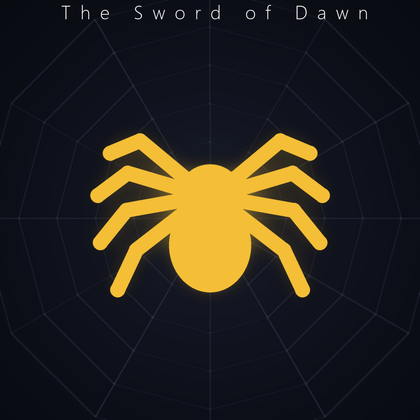
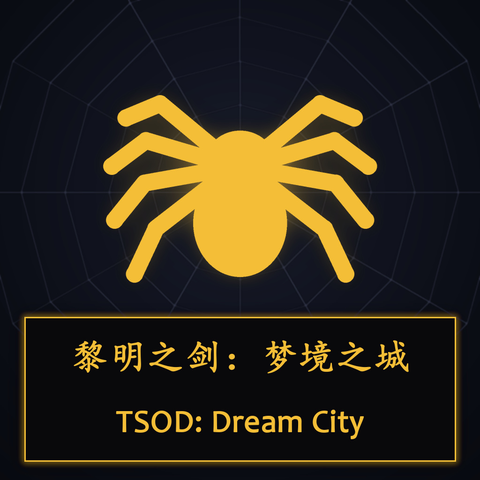
chore: Draw the whole cover in code, title plate included
Ports the Photoshop layer styles into the generator rather than pasting
a title on afterwards. Not parameter-for-parameter, just close enough to
read the same:

  drop shadow  offset by the 30 degree light, gaussian, composited
               toward black - multiply at 50% is just darkening
  outer glow   shape dilated then blurred, combined with a lighter()
               pass, which is what screen does for a solid colour
  strokes      the plate border drawn directly; the text uses a
               same-colour stroke_width, which just thickens the strokes

KaiTi for the Chinese line and Candara for the English, matching the
font picks in Photoshop. The spider moves back up to leave the lower
third for the plate. PLATE_ENABLED = False still gives a clean plate.

diff --git a/tools/make_cover.py b/tools/make_cover.py
@@ -1,20 +1,29 @@
 # -*- coding: utf-8 -*-
-"""生成创意工坊封面：深色底 + 琥珀金的上层叙事者 + 顶部标题。
+"""生成创意工坊封面：深色底 + 琥珀金的上层叙事者 + 下方标题牌。
 
 skill 的发布清单要求封面至少 512×512；这里出 1024×1024，和塞西尔帝国那张一致，
 缩略图缩下去更干净。蜘蛛用城邦那套琥珀金（245,190,55，和 PlayerColors 里同一个值），
 背后压一层很淡的蛛网，呼应「叙事者神经网络」。
 
-标题贴顶排，蜘蛛随之落到画面正中，构图才不会头重脚轻。
-字距是加在每个字母**后面**的，末尾会多出一份空档，所以整行还要右移半个字距
-才是视觉居中——直接按总宽居中会偏左。
-把 TITLE_TEXT 置空就出一张不带字的底图。
+标题牌照着 PS 里那套图层样式复刻，不追求参数一一对应，看着是那么回事就行：
+
+    投影    正片叠底 50%，角度 30°，距离 5px，大小 38px
+            -> 一层偏移后高斯模糊的黑，压在牌子底下
+    外发光  滤色 50%，黄色，扩展 20%，大小 6px
+            -> 把牌子形状往外扩几像素再模糊，以「取较亮者」的方式叠上去
+    描边    3px 内部，琥珀金
+            -> 直接画在矩形边上
+    文字描边
+            -> PIL 的 stroke_width，同色描边等于把笔画稍微加粗一点
+
+中文用楷体、英文用 Candara，跟 PS 里选的一致。
+把 PLATE_ENABLED 关掉就出一张干净的底图。
 """
 import math
 import os
 import sys
 
-from PIL import Image, ImageDraw, ImageFilter, ImageFont
+from PIL import Image, ImageChops, ImageDraw, ImageFilter, ImageFont
 
 sys.path.insert(0, os.path.dirname(os.path.abspath(__file__)))
 import make_icon  # noqa: E402  —— 复用同一只蜘蛛，不另画一份
@@ -28,18 +37,38 @@ BG_CENTER  = (26, 30, 46)
 BG_EDGE    = (8, 10, 16)
 WEB_COLOR  = (74, 80, 108)
 
-SPIDER_SIZE   = 620          # 蜘蛛边长
-SPIDER_CENTER = (SIZE // 2, SIZE // 2 + 20)   # 正中略偏下，给顶部标题让位
+SPIDER_SIZE   = 620
+SPIDER_CENTER = (SIZE // 2, 410)   # 偏上，把下半张留给标题牌
 WEB_CENTER    = SPIDER_CENTER
 WEB_RINGS     = 6
 WEB_SPOKES    = 12
 WEB_MAX_R     = 560
 
-TITLE_TEXT  = "The Sword of Dawn"          # 置空则不画标题
-TITLE_FONT  = r"C:\Windows\Fonts\segoeuil.ttf"   # Segoe UI Light
-TITLE_SIZE  = 46
-TITLE_TRACK = 0.50           # em 为单位；PS 字符面板里的字距填 500
-TITLE_TOP   = 12             # 字形顶端离画布顶端的像素数
+# ---- 标题牌 ----------------------------------------------------------------
+PLATE_ENABLED = True
+PLATE_BOX     = (52, 676, 972, 984)      # left, top, right, bottom
+PLATE_FILL    = (9, 9, 11)
+PLATE_STROKE  = 3
+
+GLOW_SPREAD = 5      # 外发光「扩展」：形状先往外胀这么多像素
+GLOW_BLUR   = 7      # 外发光「大小」
+GLOW_ALPHA  = 0.50
+
+SHADOW_ANGLE = 30    # PS 的光源角度，阴影落在反方向
+SHADOW_DIST  = 5
+SHADOW_BLUR  = 19    # PS 的「大小 38」约等于这个半径
+SHADOW_ALPHA = 0.50
+
+TEXT_CN      = "黎明之剑：梦境之城"
+TEXT_EN      = "TSOD: Dream City"
+FONT_CN      = r"C:\Windows\Fonts\simkai.ttf"    # 楷体
+FONT_EN      = r"C:\Windows\Fonts\Candara.ttf"
+SIZE_CN      = 76
+SIZE_EN      = 68
+BASELINE_CN  = 762      # 两行文字各自的视觉中线
+BASELINE_EN  = 906
+TRACK_CN     = 0.06     # 楷体挤在一起不好看，稍微松一点
+TRACK_EN     = 0.02
 
 
 def radial_background():
@@ -80,22 +109,66 @@ def draw_web(img):
     return img
 
 
-def draw_title(img):
+def _plate_mask(spread=0, offset=(0, 0)):
+    """标题牌的形状。spread 让它往外胀，offset 让它整体位移。"""
+    m = Image.new("L", (SIZE, SIZE), 0)
+    d = ImageDraw.Draw(m)
+    l, t, r, b = PLATE_BOX
+    d.rectangle((l - spread + offset[0], t - spread + offset[1],
+                 r + spread + offset[0], b + spread + offset[1]), fill=255)
+    return m
+
+
+def draw_plate(img):
+    """投影 -> 外发光 -> 牌面 -> 描边，顺序和 PS 图层样式一致。"""
+    # 投影：正片叠底就是往下压暗，这里直接按 mask 把底图往黑里插值
+    rad = math.radians(SHADOW_ANGLE)
+    off = (int(round(-SHADOW_DIST * math.cos(rad))),
+           int(round(SHADOW_DIST * math.sin(rad))))
+    shadow = _plate_mask(spread=2, offset=off).filter(ImageFilter.GaussianBlur(SHADOW_BLUR))
+    shadow = shadow.point(lambda v: int(v * SHADOW_ALPHA))
+    img = Image.composite(Image.new("RGB", img.size, (0, 0, 0)), img, shadow)
+
+    # 外发光：滤色 = 取较亮者，用胀开后模糊的形状当强度
+    glow_mask = _plate_mask(spread=GLOW_SPREAD).filter(ImageFilter.GaussianBlur(GLOW_BLUR))
+    glow_mask = glow_mask.point(lambda v: int(v * GLOW_ALPHA))
+    glow = Image.new("RGB", img.size, AMBER)
+    glow.putalpha(glow_mask)
+    img = ImageChops.lighter(img, Image.composite(glow.convert("RGB"),
+                                                  Image.new("RGB", img.size, (0, 0, 0)),
+                                                  glow_mask))
+
+    # 牌面与描边
     d = ImageDraw.Draw(img)
-    f = ImageFont.truetype(TITLE_FONT, TITLE_SIZE)
-    # 按墨迹包围盒定位，字形顶端才会正好落在 TITLE_TOP，
-    # 而不是差着字体自带的那点 ascender 空隙。
-    ink = d.textbbox((0, 0), TITLE_TEXT, font=f)
-    y = TITLE_TOP - ink[1]
+    d.rectangle(PLATE_BOX, fill=PLATE_FILL, outline=AMBER, width=PLATE_STROKE)
+    return img
 
-    extra  = TITLE_SIZE * TITLE_TRACK
-    widths = [d.textlength(ch, font=f) for ch in TITLE_TEXT]
-    total  = sum(widths) + extra * (len(TITLE_TEXT) - 1)
-    x = (img.width - total) / 2.0 + extra / 2.0   # 补末尾多出的半个字距
 
-    for ch, w in zip(TITLE_TEXT, widths):
-        d.text((x, y), ch, font=f, fill=(255, 255, 255))
+def draw_tracked(d, center_x, mid_y, text, font, tracking_em):
+    """按字距逐字排，并按墨迹包围盒把整行垂直居中。
+
+    字距是加在每个字后面的，末尾会多出一份空档，所以整行要右移半格才是视觉居中。
+    """
+    extra  = font.size * tracking_em
+    widths = [d.textlength(ch, font=font) for ch in text]
+    total  = sum(widths) + extra * (len(text) - 1)
+    ink    = d.textbbox((0, 0), text, font=font)
+    y      = mid_y - (ink[1] + ink[3]) / 2.0
+    x      = center_x - total / 2.0 + extra / 2.0
+    for ch, w in zip(text, widths):
+        d.text((x, y), ch, font=font, fill=AMBER,
+               stroke_width=1, stroke_fill=AMBER)   # 同色描边 = 笔画稍微加粗
         x += w + extra
+    return total
+
+
+def draw_titles(img):
+    d = ImageDraw.Draw(img)
+    cx = (PLATE_BOX[0] + PLATE_BOX[2]) // 2
+    draw_tracked(d, cx, BASELINE_CN, TEXT_CN,
+                 ImageFont.truetype(FONT_CN, SIZE_CN), TRACK_CN)
+    draw_tracked(d, cx, BASELINE_EN, TEXT_EN,
+                 ImageFont.truetype(FONT_EN, SIZE_EN), TRACK_EN)
     return img
 
 
@@ -118,8 +191,10 @@ def main():
     out = Image.alpha_composite(img.convert("RGBA"), glow)
     out.alpha_composite(tinted, (gx, gy))
     out = out.convert("RGB")
-    if TITLE_TEXT:
-        draw_title(out)
+
+    if PLATE_ENABLED:
+        out = draw_titles(draw_plate(out))
+
     out.save(OUT, "JPEG", quality=94, subsampling=0)
     print("wrote %s (%dx%d)" % (OUT, SIZE, SIZE))
 

diff --git a/README.md b/README.md
@@ -207,7 +207,7 @@ UI/CityStates_TSODDreamCity.lua       城邦面板：让新类别有图标和名
 Textures/*.dds                        图标本体
 tools/make_icon.py                    重新生成图标
 tools/make_cover.py                   重新生成创意工坊封面
-DreamCity.jpg                         创意工坊封面（1024×1024，标题贴顶）
+DreamCity.jpg                         创意工坊封面（1024×1024，含中英文标题牌）
 WORKSHOP_CN.md / WORKSHOP_EN.md       创意工坊简介（Steam BBCode）
 ```
 
